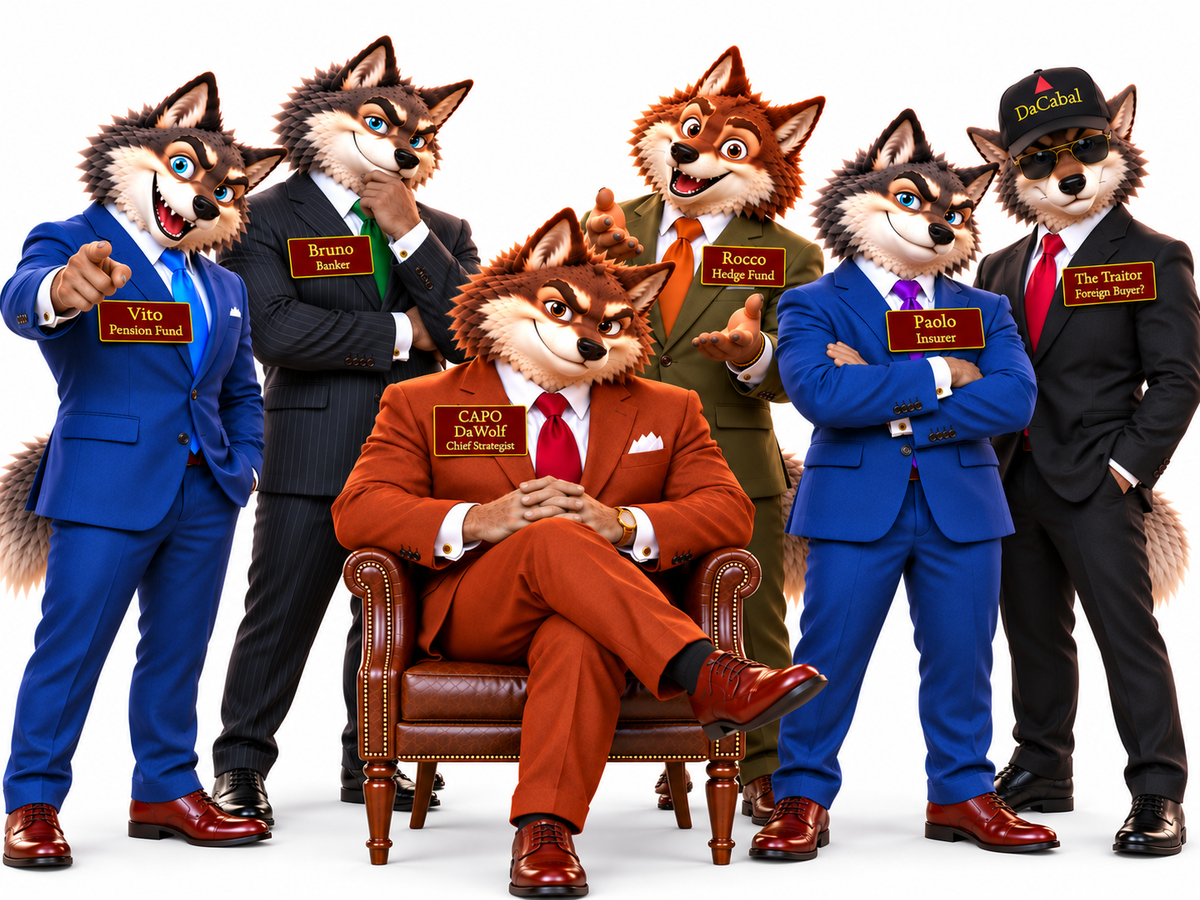
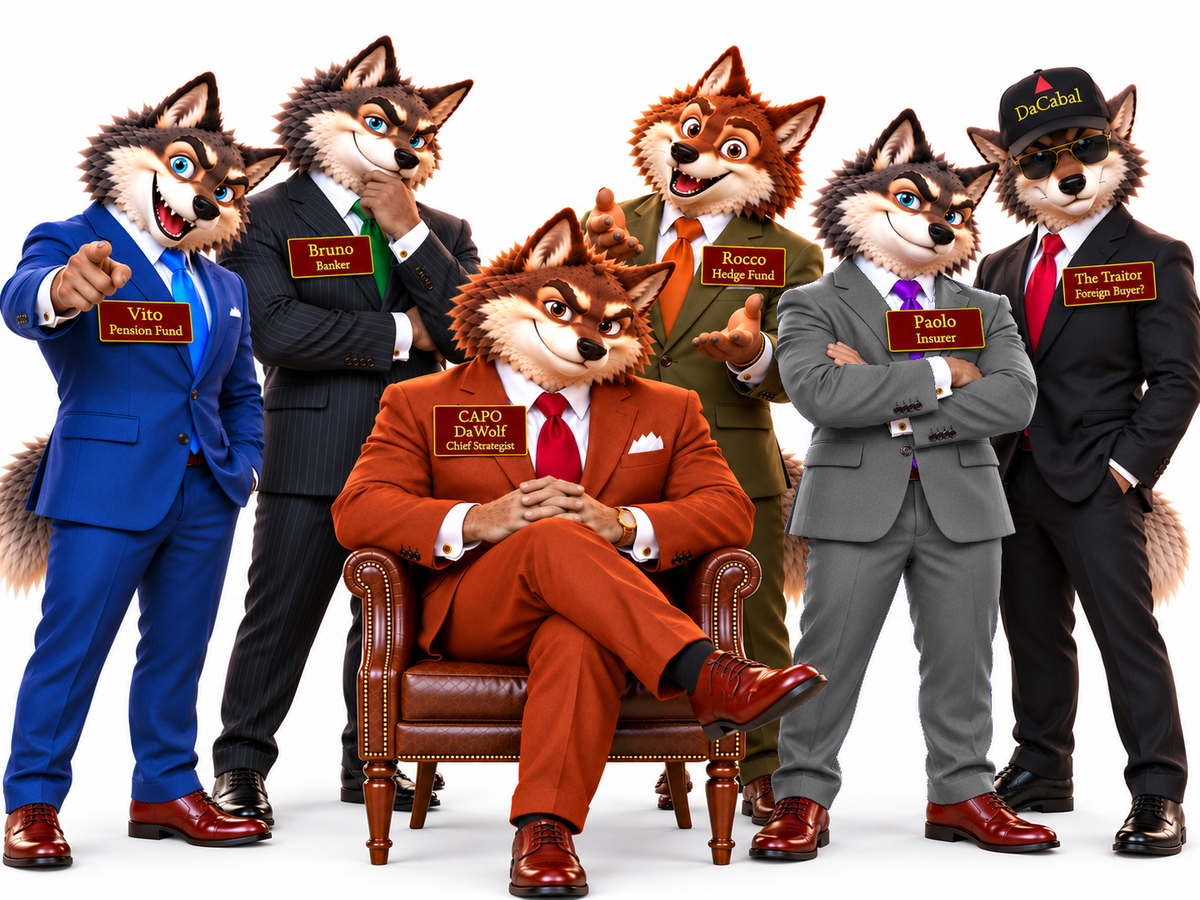
Da Cabal: Paolo in a gray suit

Changed region(s): [[0.6475, 0.28, 0.8633, 0.9022]]

diff --git a/cast/index.html b/cast/index.html
@@ -89,7 +89,7 @@
       <h2 id="da-cabal-h">Da Cabal</h2>
       <p>DaCabal acts as one, but is more than one. DaCabal is the pack of wolves. The boss is Capo DaWolf. He gives the orders. His beat is Washington’s debt, not your savings. Vito, Bruno, Rocco and Paolo work the desk. They sell first and ask questions later. Their battle cry is one word: “Yours.” On a bond desk, that means I just sold my bonds to you.</p>
       <p class="role">From <a href="https://chipcorley.substack.com/p/the-bond-vigilantes-who-are-they">The Bond Vigilantes: Who Are They?</a> (Oct 6, 2026)</p>
-      <img class="crew" src="../assets/cast/dacabal-crew.png?v=3" alt="Six suited wolves on white. Capo DaWolf sits in a leather chair. Standing around him: Vito, Pension Fund; Bruno, Banker; Rocco, Hedge Fund; Paolo, Insurer; and a wolf in a DaCabal cap and sunglasses whose name tag reads The Traitor, Foreign Buyer?" width="1200" height="900">
+      <img class="crew" src="../assets/cast/dacabal-crew.png?v=4" alt="Six suited wolves on white. Capo DaWolf sits in a leather chair. Standing around him: Vito, Pension Fund; Bruno, Banker; Rocco, Hedge Fund; Paolo, Insurer; and a wolf in a DaCabal cap and sunglasses whose name tag reads The Traitor, Foreign Buyer?" width="1200" height="900">
       <ul class="crew-grid">
         <li><b>Vito</b>Pension fund<br><i>New York</i></li>
         <li><b>Bruno</b>Banker<br><i>Zurich</i></li>
